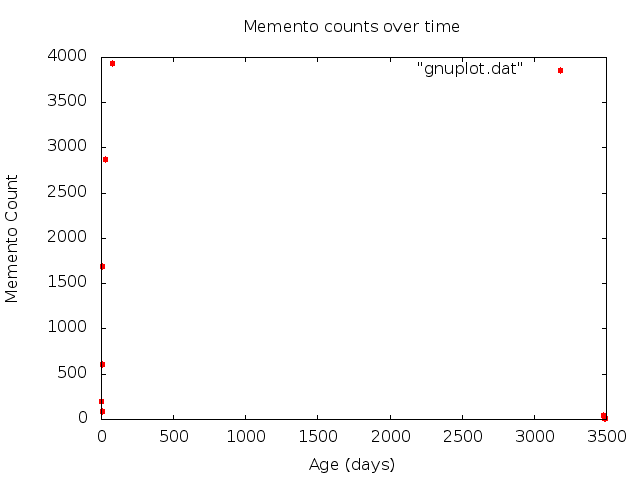
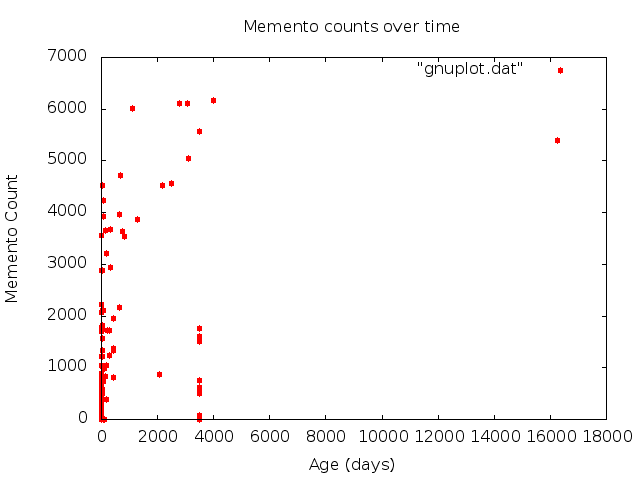
-Adding q3 results

diff --git a/a2/q3/carbon.py b/a2/q3/carbon.py
@@ -18,12 +18,11 @@ if __name__ == "__main__":
 	with open(input, 'r') as f:
 		with open('gnuplot.dat', 'w') as o:
 			for line in f:
-				mementoCount = int(line.split(' ')[1])
+				mementoCount = int(line.split(' ')[1].strip())
+				uri = line.split(' ')[0].strip()
 				if not mementoCount == 0:
-					uri = line.split(' ')[0]
 					earliest = carbonDate(uri)
 					days = getDays(earliest)
 					o.write(str(mementoCount) + " " + str(days) + '\n')
-					exit
 				else:
-					print('Skipping uri ' + line.split(' ')[0])
+					print('Skipping uri ' + uri)
